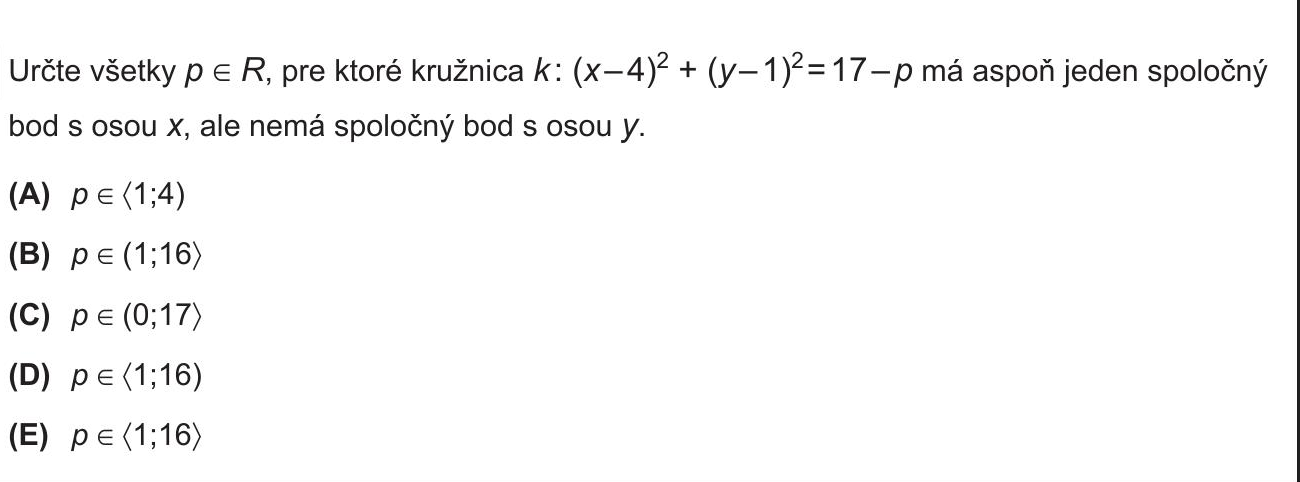
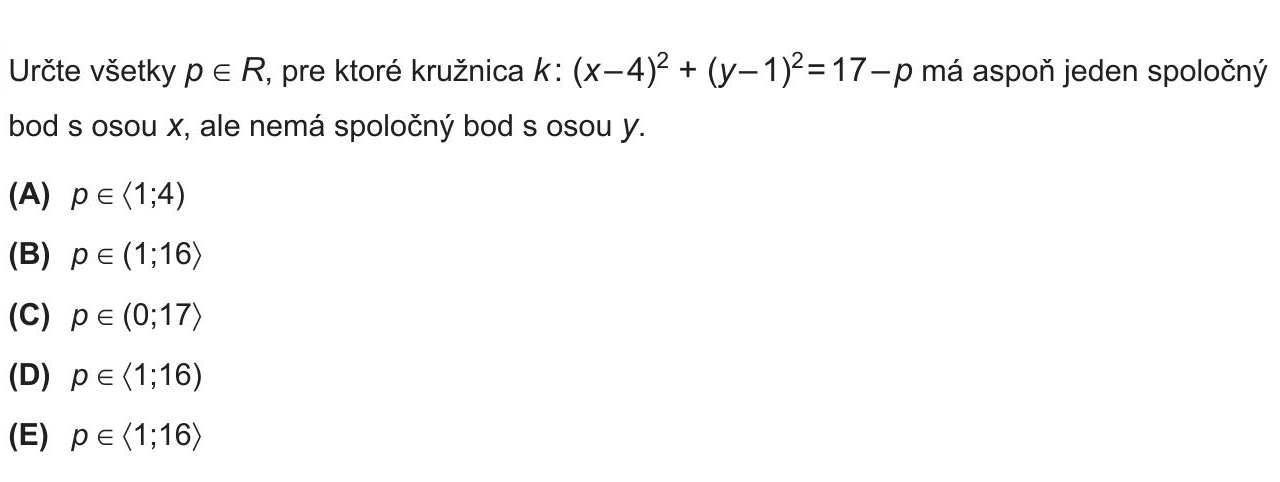
feat: update 2012 test questions

diff --git a/python/questions_extraction.py b/python/questions_extraction.py
@@ -37,7 +37,7 @@ def extract_question(PATH, SAVE_PATH):
         for i in range(1, len(arr) - 1):
             if abs(arr[j] - arr[i]) < 10:
                 continue
-            cropped_image = img[(arr[j]+10):arr[i], 220:1520]
+            cropped_image = img[(arr[j]+10):arr[i], 220:1500]
             cv2.imwrite(
                 f'{SAVE_PATH}{file[:4]}-{question_n}.png', cropped_image)
             j = i
